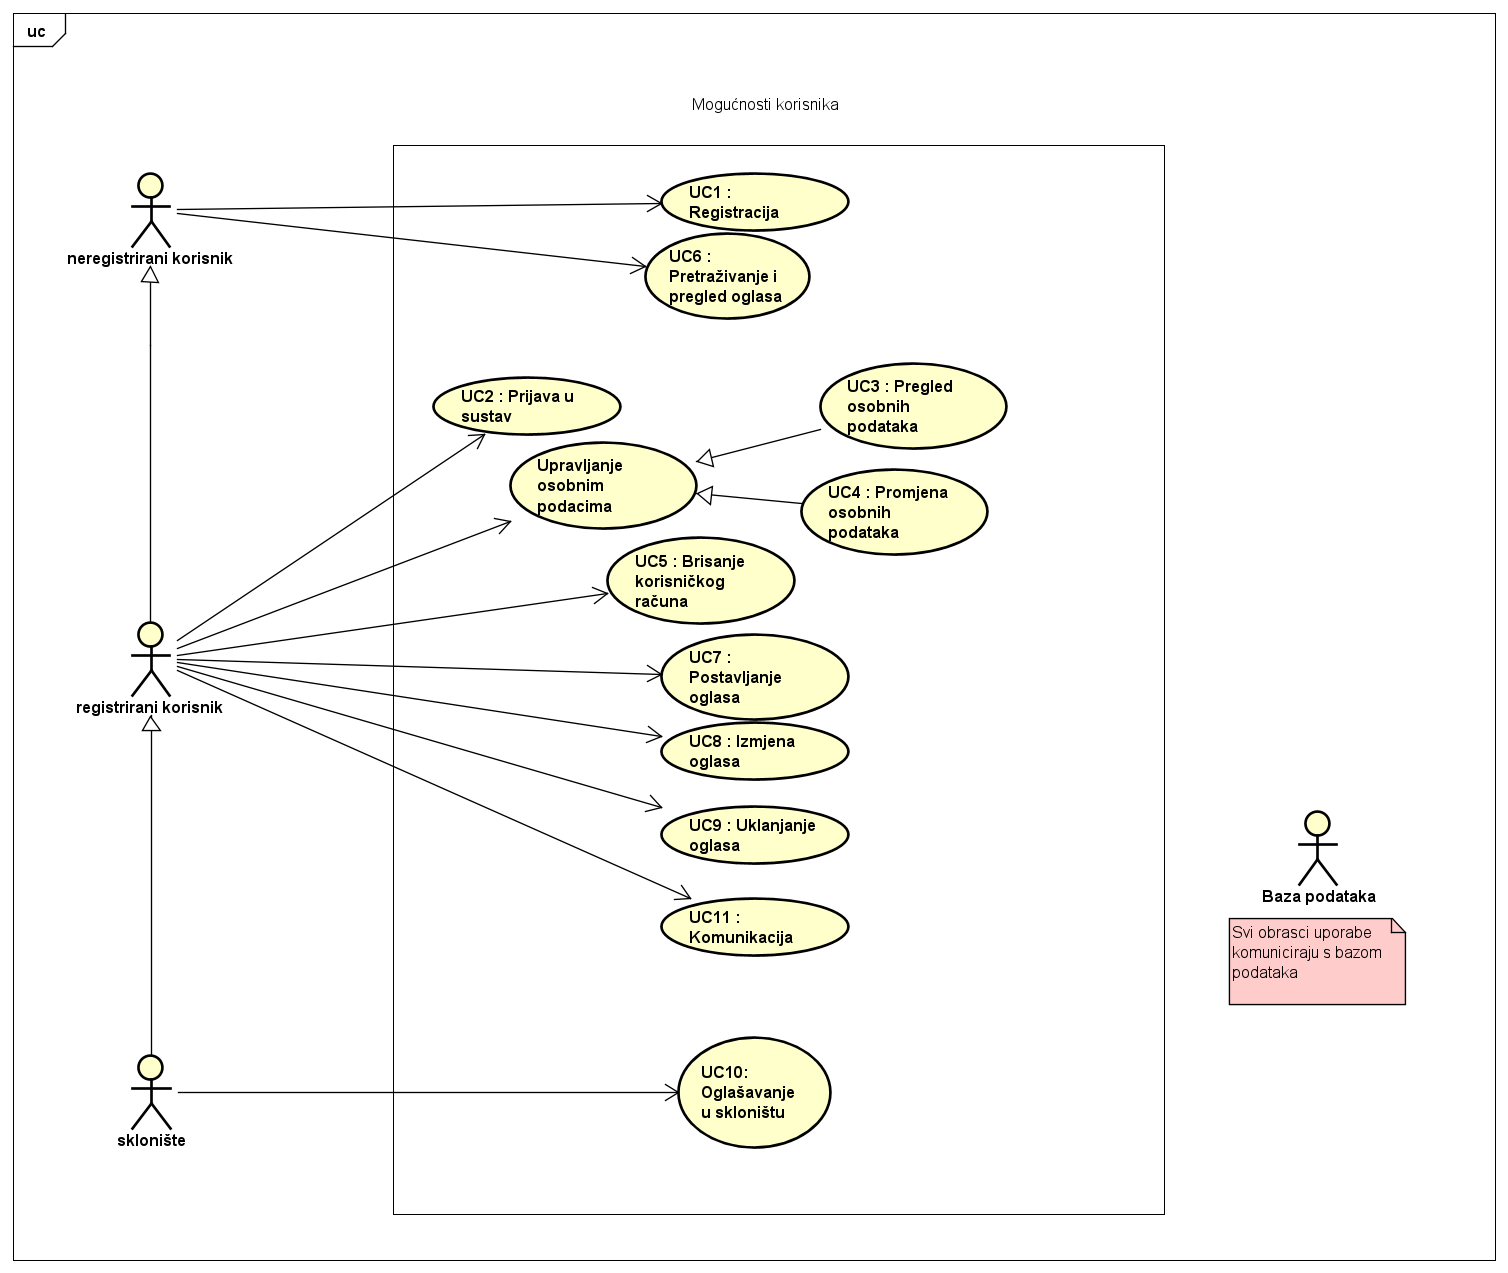
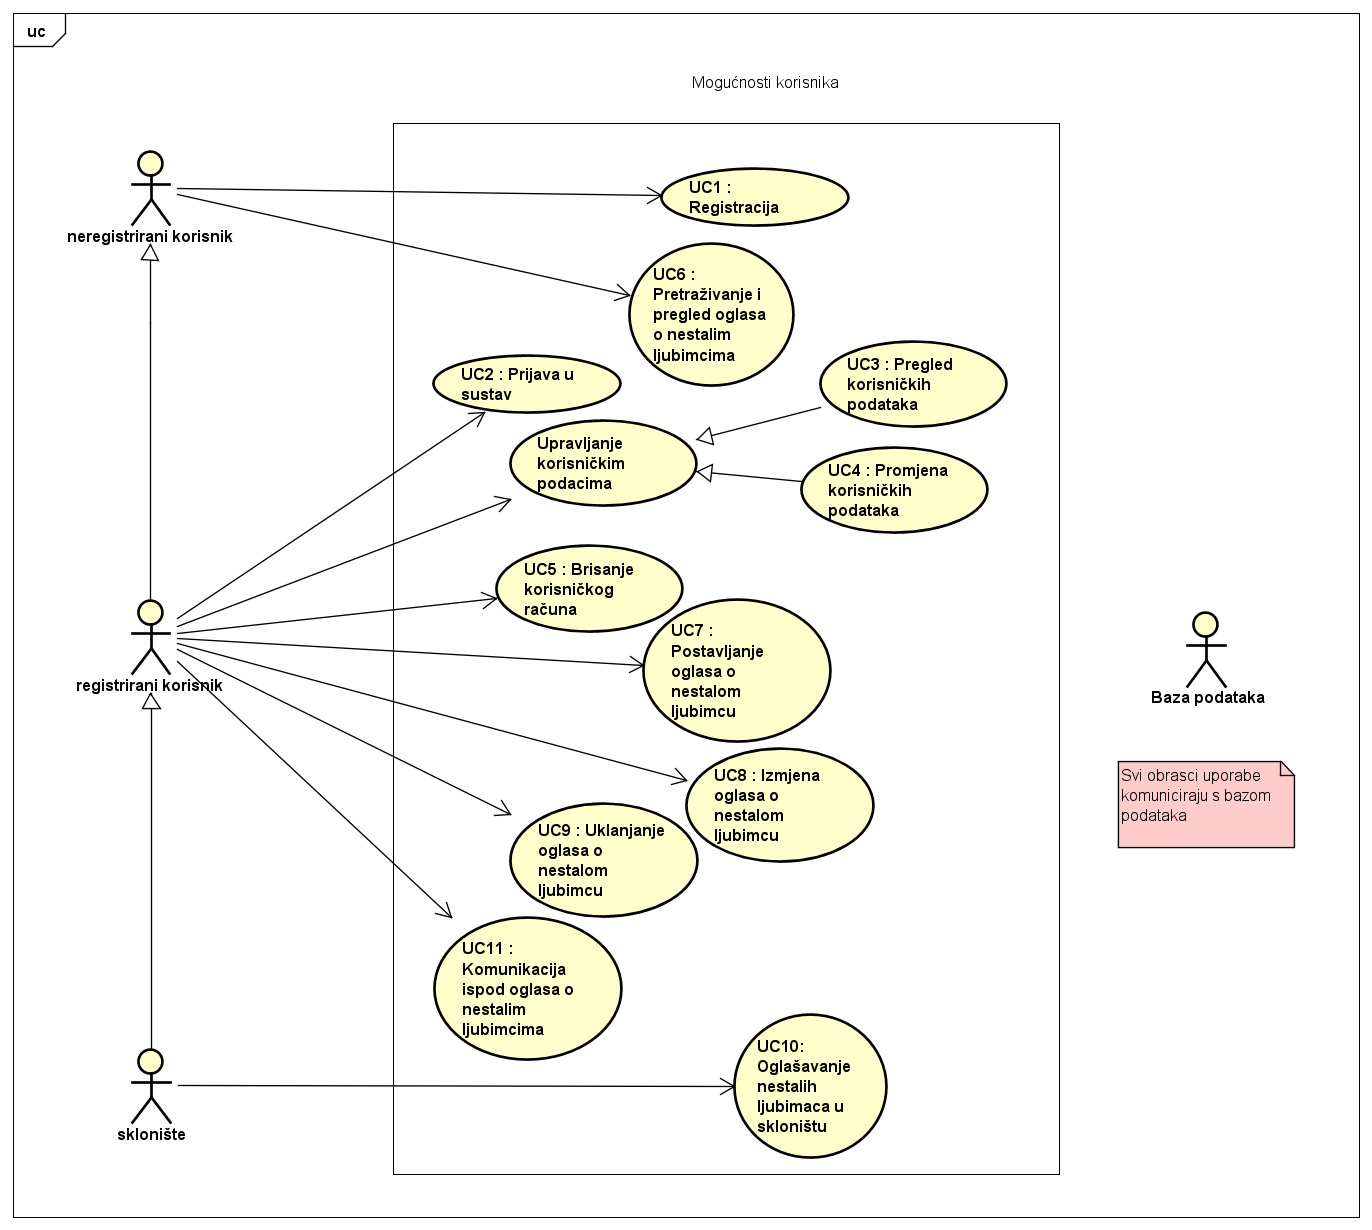
doradjeni UC po preporuci prof. Jovica

diff --git a/dokumentacija/Specifikacija_programske_potpore.tex b/dokumentacija/Specifikacija_programske_potpore.tex
@@ -132,37 +132,36 @@
 							
 						\end{packed_item}
 					\end{packed_item}
-					\pagebreak
 					
-					\noindent \underbar{\textbf{UC3 - Pregled osobnih podataka}}
+					\noindent \underbar{\textbf{UC3 - Pregled korisničkih podataka}}
 					\begin{packed_item}
 	
 						\item \textbf{Glavni sudionik:} Registrirani korisnik/sklonište za životinje
-						\item  \textbf{Cilj:} Pregledati osobne podatke
+						\item  \textbf{Cilj:} Pregledati korisničke podatke
 						\item  \textbf{Sudionici:} Baza podataka
 						\item  \textbf{Preduvjet:} Prijava u sustav
 						\item  \textbf{Opis osnovnog tijeka:}
 						
 						\item[] \begin{packed_enum}
 	
-							\item Korisnik odabire opciju za pregled osobnih podataka
-							\item Aplikacija prikazuje osobne podatke korisnika
+							\item Korisnik odabire opciju za pregled korisničkih podataka
+							\item Aplikacija prikazuje podatke korisnika
 						\end{packed_enum}
 					\end{packed_item}
 					
-					\noindent \underbar{\textbf{UC4 - Promjena osobnih podataka}}
+					\noindent \underbar{\textbf{UC4 - Promjena korisničkih podataka}}
 					\begin{packed_item}
 	
 						\item \textbf{Glavni sudionik:} Registrirani korisnik/sklonište za životinje
-						\item  \textbf{Cilj:} Promjena osobnih podataka
+						\item  \textbf{Cilj:} Promijeniti korisničke podatke
 						\item  \textbf{Sudionici:} Baza podataka
 						\item  \textbf{Preduvjet:} Prijava u sustav
 						\item  \textbf{Opis osnovnog tijeka:}
 						
 						\item[] \begin{packed_enum}
 	
-							\item Korisnik pregledava osobne podatke
-							\item Korisnik odabire opciju za promjenu osobnih podataka
+							\item Korisnik pregledava korisničke podatke
+							\item Korisnik odabire opciju za promjenu podataka
 							\item Korisnik mijenja željene podatke i potvrđuje izmjenu
 							\item Baza podataka se ažurira
 						\end{packed_enum}
@@ -178,30 +177,29 @@
 								\item Sustav obavještava korisnika o neuspjeloj promjeni podataka
 								\item Korisnik sprema izmijenjene podatke
 								
-							\end{packed_enum}
-					\end{packed_item}
+								\end{packed_enum}
+						\end{packed_item}
 					\end{packed_item}
 					
 					\noindent \underbar{\textbf{UC5 - Brisanje korisničkog računa}}
 					\begin{packed_item}
 	
 						\item \textbf{Glavni sudionik:} Registrirani korisnik/sklonište za životinje
-						\item  \textbf{Cilj:} Brisanje korisničkog računa
+						\item  \textbf{Cilj:} Obrisati korisnički račun
 						\item  \textbf{Sudionici:} Baza podataka
 						\item  \textbf{Preduvjet:} Prijava u sustav
 						\item  \textbf{Opis osnovnog tijeka:}
 						
 						\item[] \begin{packed_enum}
 	
-							\item Korisnik pregledava osobne podatke
+							\item Korisnik pregledava korisničke podatke
 							\item Korisnik odabire opciju za brisanje korisničkog računa
 							\item Korisnik potvrđuje odabir
 							\item Baza podataka se ažurira
 						\end{packed_enum}
 					\end{packed_item}
-					\pagebreak
 					
-					\noindent \underbar{\textbf{UC6 - Pretraživanje i pregled oglasa}}
+					\noindent \underbar{\textbf{UC6 - Pretraživanje i pregled oglasa o nestalim ljubimcima}}
 					\begin{packed_item}
 	
 						\item \textbf{Glavni sudionik:} Korisnik
@@ -212,8 +210,8 @@
 						
 						\item[] \begin{packed_enum}
 	
-							\item Korisniku se prikazuju oglasi
-							\item Oglasi se mogu filtrirati po relevantnim podacima
+							\item Korisniku se prikazuju oglasi o nestalim ljubimcima
+							\item Oglasi se mogu filtrirati po relevantnim podacima, s tim da su neaktivni oglasi vidljivi samo registriranim korisnicima
 							\item Prikaz filtriranih oglasa
 						\end{packed_enum}
 						
@@ -231,7 +229,7 @@
 						\end{packed_item}
 					\end{packed_item}
 					
-					\noindent \underbar{\textbf{UC7 - Postavljanje oglasa}}
+					\noindent \underbar{\textbf{UC7 - Postavljanje oglasa o nestalom ljubimcu}}
 					\begin{packed_item}
 	
 						\item \textbf{Glavni sudionik:} Registrirani korisnik
@@ -260,9 +258,8 @@
 							\item Korisnik odabire opciju za objavljivanje i njegov oglas postaje vidljiv drugima
 						\end{packed_enum}
 					\end{packed_item}
-					\pagebreak
 					
-					\noindent \underbar{\textbf{UC8 - Izmjena oglasa}}
+					\noindent \underbar{\textbf{UC8 - Izmjena oglasa o nestalom ljubimcu}}
 					\begin{packed_item}
 	
 						\item \textbf{Glavni sudionik:} Registrirani korisnik
@@ -286,7 +283,7 @@
 						\end{packed_enum}
 					\end{packed_item}
 					
-					\noindent \underbar{\textbf{UC9 - Uklanjanje oglasa}}
+					\noindent \underbar{\textbf{UC9 - Uklanjanje oglasa o nestalom ljubimcu}}
 					\begin{packed_item}
 	
 						\item \textbf{Glavni sudionik:} Registrirani korisnik
@@ -302,7 +299,7 @@
 						\end{packed_enum}
 					\end{packed_item}
 					
-					\noindent \underbar{\textbf{UC10 - Oglašavanje u skloništu}}
+					\noindent \underbar{\textbf{UC10 - Oglašavanje nestalih ljubimaca u skloništu}}
 					\begin{packed_item}
 	
 						\item \textbf{Glavni sudionik:} Sklonište za životinje
@@ -321,7 +318,7 @@
 					
 					
 					
-					\noindent \underbar{\textbf{UC11 - Komunikacija}}
+					\noindent \underbar{\textbf{UC11 - Komunikacija ispod oglasa o nestalom ljubimcu}}
 					\begin{packed_item}
 	
 						\item \textbf{Glavni sudionik:} Registrirani korisnik
